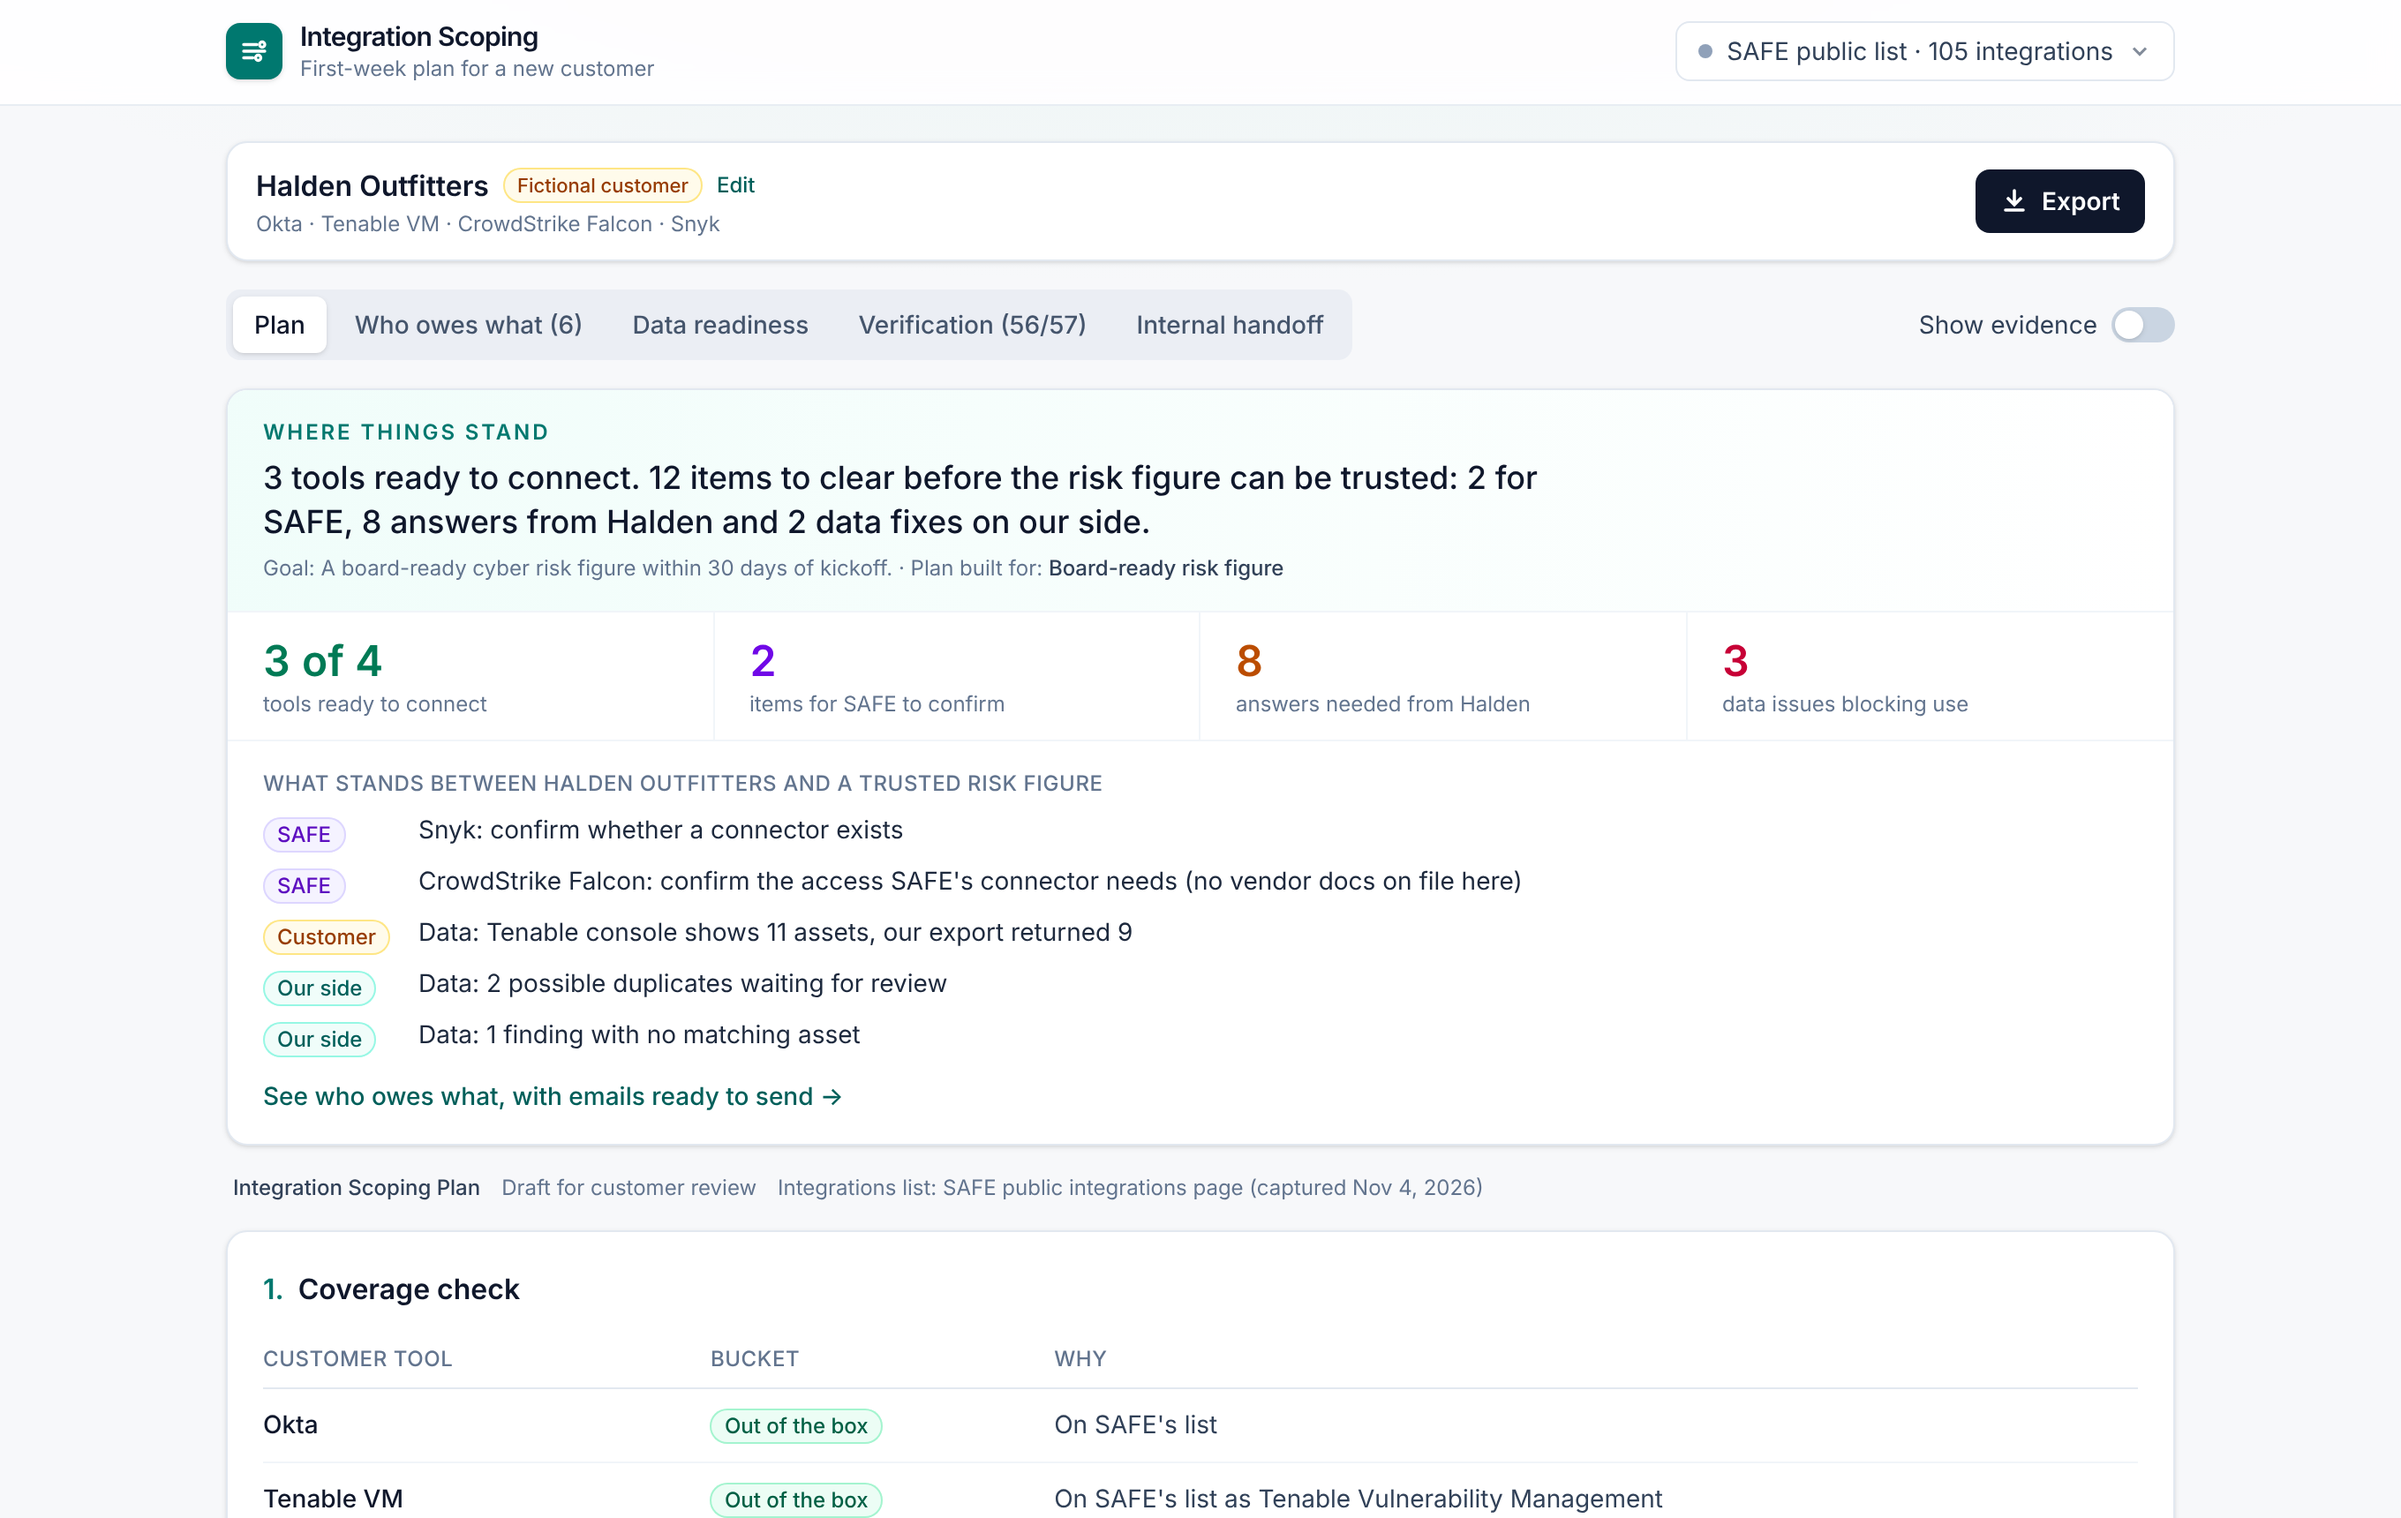
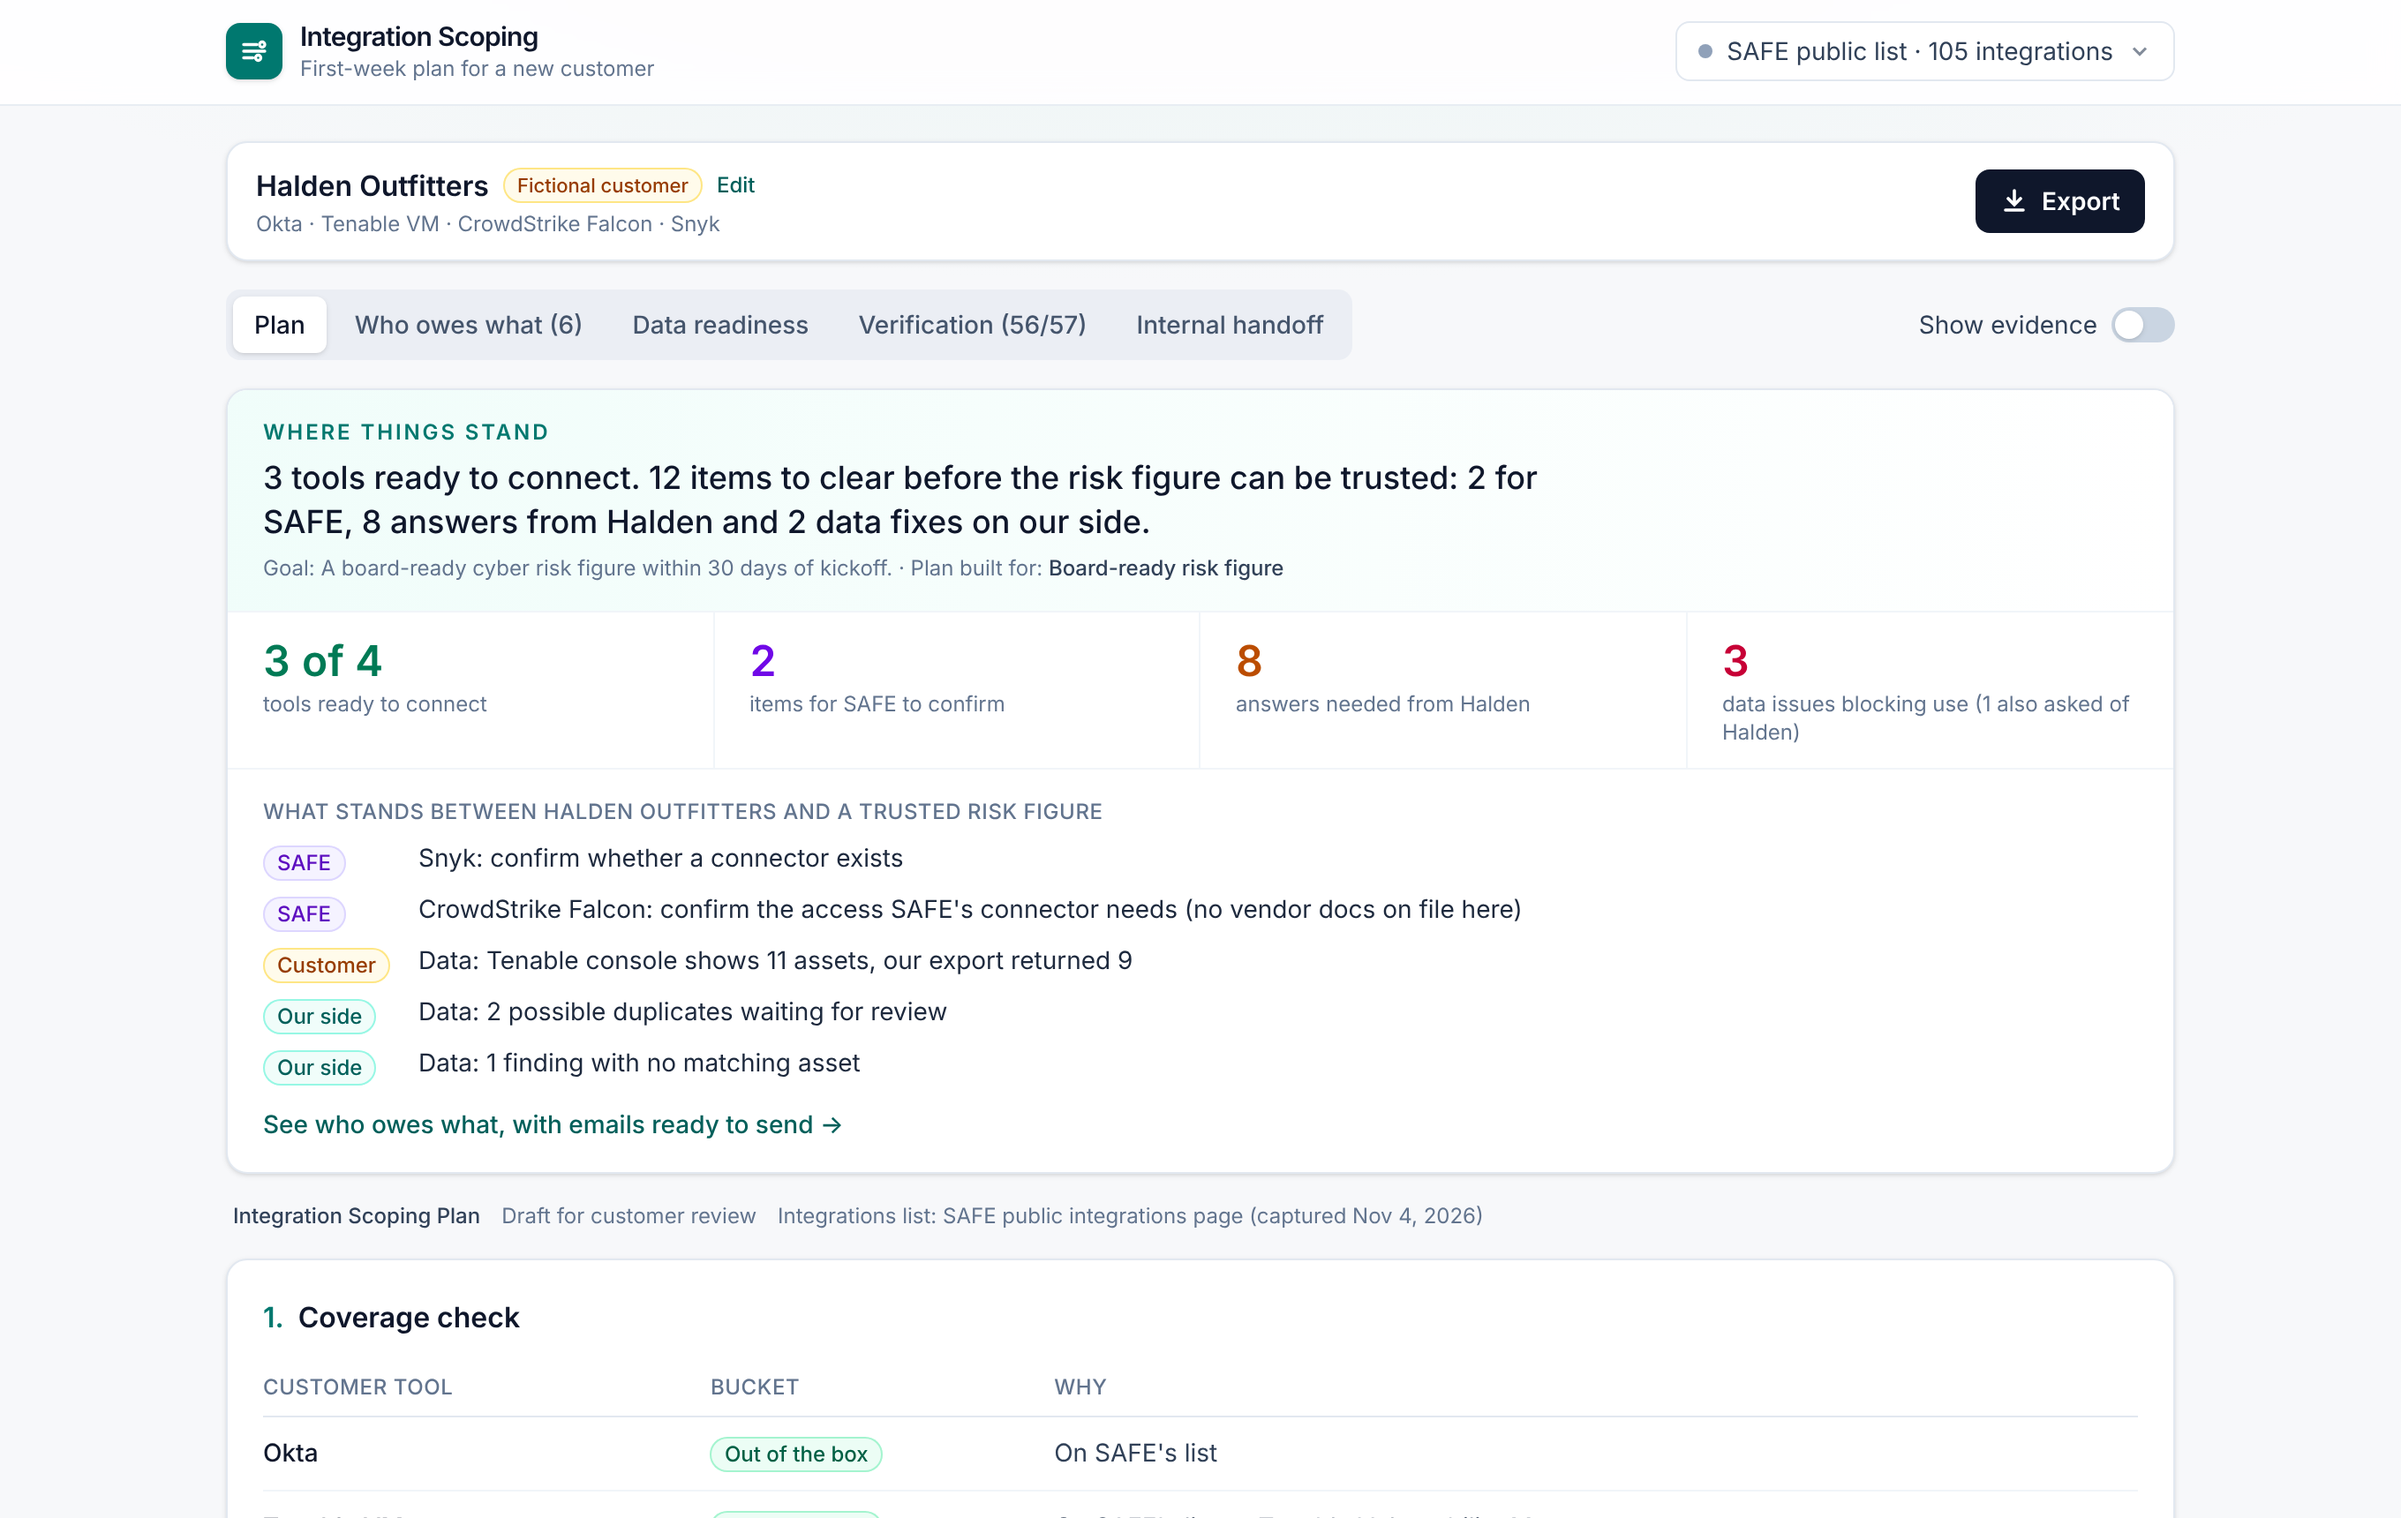
Third tile notes blockers that are also customer answers
The board summary's data tile now reads 'data issues blocking use (1 also
asked of Halden)', so the tiles add up to the headline on screen. Unchanged
when there is no overlap (access goal).

Claude-Session: https://claude.ai/code/session_013cWxq1S6bMtX9Waw32WuUz

diff --git a/src/core/summary.ts b/src/core/summary.ts
@@ -11,7 +11,7 @@ export interface Summary {
   safe_items: number // every line in the list that SAFE has to confirm
   customer_questions: number
   people_to_contact: number
-  data: { status: 'not_run' | 'ready' | 'blocked'; blockers: number; warnings: number }
+  data: { status: 'not_run' | 'ready' | 'blocked'; blockers: number; warnings: number; asked_of_customer: number } // asked_of_customer: blockers that are also a customer answer
   headline: string
   blockers: { who: 'SAFE' | 'Customer' | 'Us'; text: string }[]
 }
@@ -98,7 +98,7 @@ export function buildSummary(plan: Plan, data: DataReport | null): Summary {
     safe_items: safeItems,
     customer_questions: customerQuestions,
     people_to_contact: customerOwners.length,
-    data: { status: dataStatus, blockers: dataBlocks.length, warnings: dataWarns.length },
+    data: { status: dataStatus, blockers: dataBlocks.length, warnings: dataWarns.length, asked_of_customer: blockers.filter((b) => b.who === 'Customer').length },
     headline,
     blockers,
   }

diff --git a/src/client/components/Summary.tsx b/src/client/components/Summary.tsx
@@ -20,7 +20,7 @@ export function SummaryCard({ plan, summary, onOwners }: { plan: Plan; summary: 
         <Tile value={summary.customer_questions} label={`${summary.customer_questions === 1 ? 'answer' : 'answers'} needed from ${plan.customer.name.split(' ')[0]}`} tone={summary.customer_questions ? 'amber' : 'emerald'} />
         <Tile
           value={d.status === 'not_run' ? 'Not checked' : d.blockers}
-          label={d.status === 'not_run' ? 'data checks not run yet' : d.blockers === 1 ? 'data issue blocking use' : 'data issues blocking use'}
+          label={d.status === 'not_run' ? 'data checks not run yet' : `${d.blockers === 1 ? 'data issue' : 'data issues'} blocking use${d.asked_of_customer ? ` (${d.asked_of_customer} also asked of ${plan.customer.name.split(' ')[0]})` : ''}`}
           tone={d.status === 'ready' ? 'emerald' : d.status === 'blocked' ? 'rose' : 'slate'}
         />
       </div>

diff --git a/tests/summary.test.ts b/tests/summary.test.ts
@@ -126,6 +126,9 @@ describe('summary sentence and card lines (code-written)', () => {
       // a blocking data issue that is already a customer answer is not counted again
       const asked = s.blockers.filter((b) => b.who === 'Customer').length
       expect(Number(m[1]), k.name).toBe(s.safe_items + s.customer_questions + s.data.blockers - asked)
+      // the third tile says how many of its blockers are also customer answers, so the tiles add up to the headline
+      expect(s.data.asked_of_customer, k.name).toBe(asked)
+      expect(s.data.asked_of_customer, k.name).toBe(k.name === 'access' ? 0 : 1)
     }
   })
 
